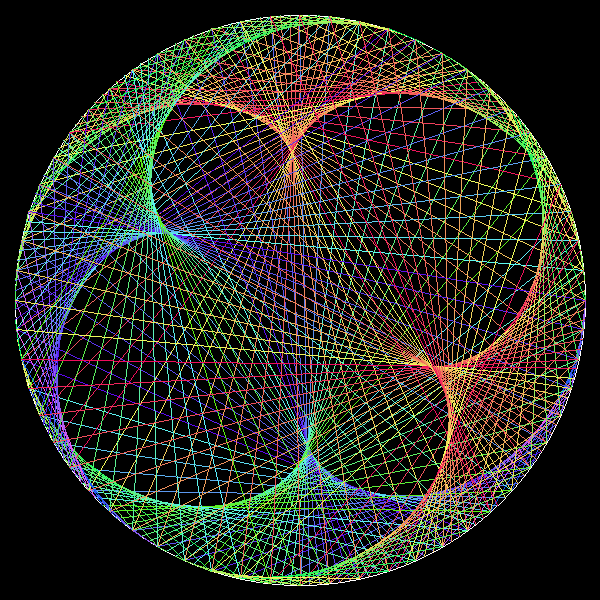
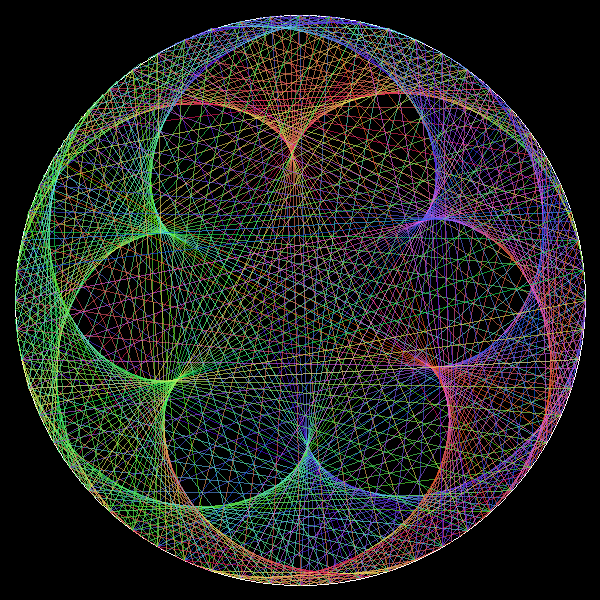
update 1

diff --git a/main.go b/main.go
@@ -65,7 +65,7 @@ func main() {
 		hs := math.Abs((hss * float64(i)) - 270)
 		h := math.Mod(hs, 360)
 		r, g, b := hsl.HSLtoRGB(h, 90, 90)
-		c := ibuf0.ColorAllocateAlpha(int(r), int(g), int(b), 0)
+		c := ibuf0.ColorAllocateAlpha(int(r), int(g), int(b), 50)
 		ibuf0.Line(int(Edge[startIndex].X), int(Edge[startIndex].Y), int(Edge[endIndex].X), int(Edge[endIndex].Y), c)
 		startIndex += 1
 		startIndex = startIndex % l
@@ -75,10 +75,23 @@ func main() {
 	startIndex = l / 3
 	endIndex = startIndex + m
 	for i := 0; i < l; i++ {
-		hs := math.Abs((hss * float64(i)) - 270)
+		hs := math.Abs((hss * float64(i)) + 45)
 		h := math.Mod(hs, 360)
 		r, g, b := hsl.HSLtoRGB(h, 90, 90)
-		c := ibuf0.ColorAllocateAlpha(int(r), int(g), int(b), 0)
+		c := ibuf0.ColorAllocateAlpha(int(r), int(g), int(b), 50)
+		ibuf0.Line(int(Edge[startIndex].X), int(Edge[startIndex].Y), int(Edge[endIndex].X), int(Edge[endIndex].Y), c)
+		startIndex += 1
+		startIndex = startIndex % l
+		endIndex = (endIndex + m) % l
+	}
+
+	startIndex = l/3 + (l / 3)
+	endIndex = startIndex + m
+	for i := 0; i < l; i++ {
+		hs := math.Abs((hss * float64(i)) + 180)
+		h := math.Mod(hs, 360)
+		r, g, b := hsl.HSLtoRGB(h, 90, 90)
+		c := ibuf0.ColorAllocateAlpha(int(r), int(g), int(b), 50)
 		ibuf0.Line(int(Edge[startIndex].X), int(Edge[startIndex].Y), int(Edge[endIndex].X), int(Edge[endIndex].Y), c)
 		startIndex += 1
 		startIndex = startIndex % l
